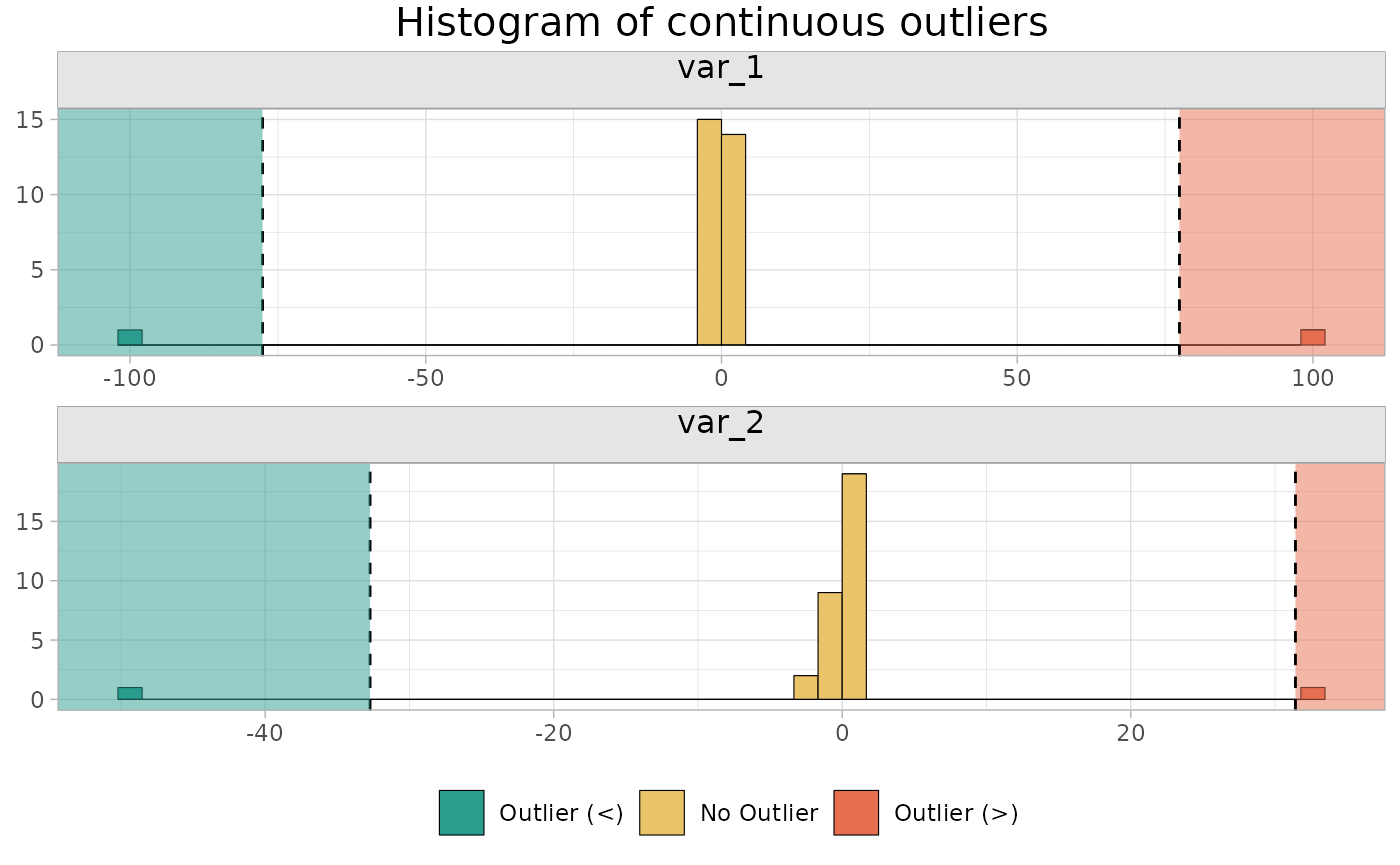
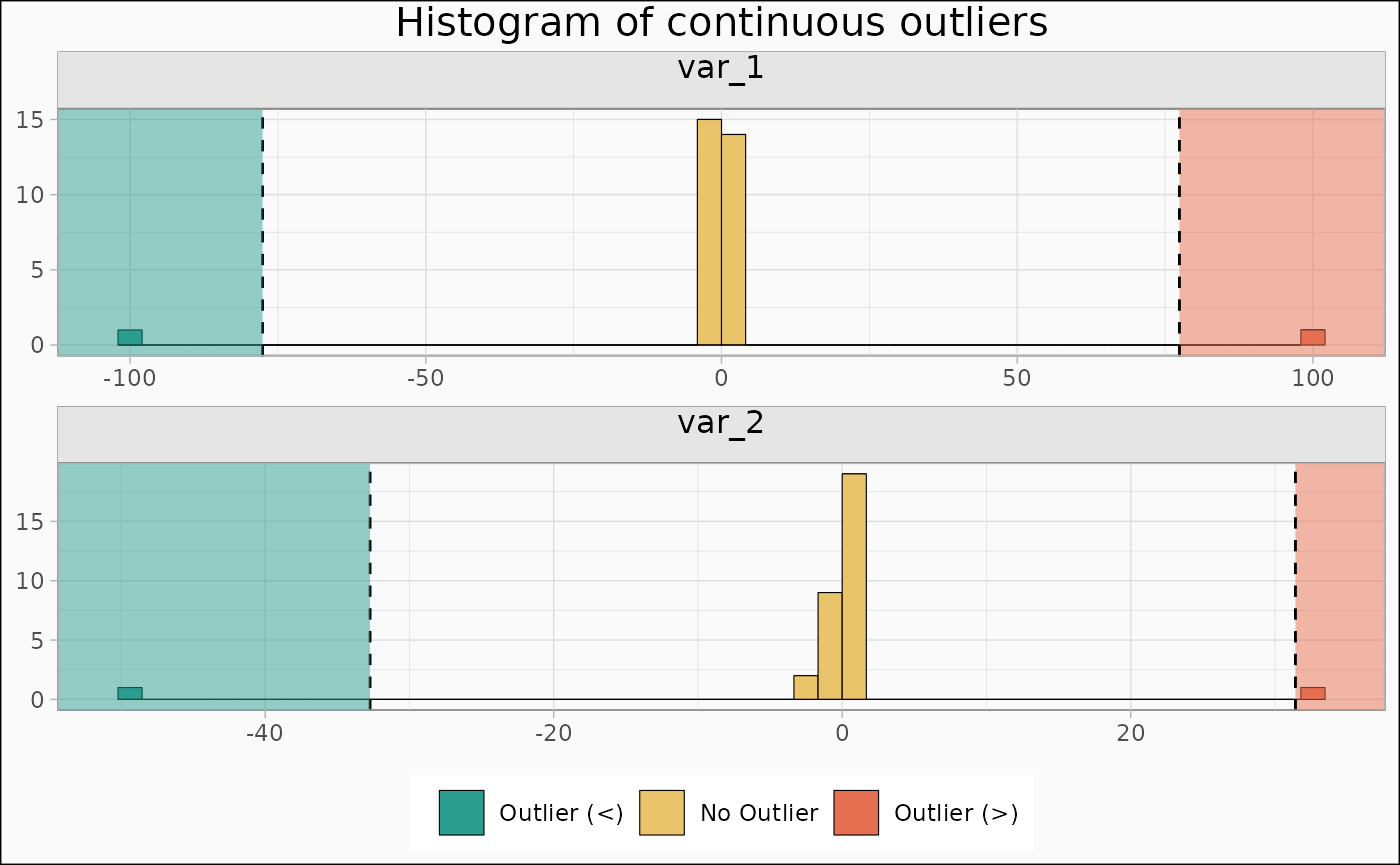
Deploying to gh-pages from @ pedersebastian/outlieR@e7d8fe335656da8a28c948767eb1f9e5629feb95 🚀

diff --git a/reference/theme_outlier.html b/reference/theme_outlier.html
@@ -55,13 +55,17 @@
 
     <div class="section level2">
     <h2 id="ref-usage">Usage<a class="anchor" aria-label="anchor" href="#ref-usage"></a></h2>
-    <div class="sourceCode"><pre class="sourceCode r"><code><span><span class="fu">theme_outlier</span><span class="op">(</span><span class="va">...</span><span class="op">)</span></span></code></pre></div>
+    <div class="sourceCode"><pre class="sourceCode r"><code><span><span class="fu">theme_outlier</span><span class="op">(</span>bg_colour <span class="op">=</span> <span class="st">"#fafafa"</span>, <span class="va">...</span><span class="op">)</span></span></code></pre></div>
     </div>
 
     <div class="section level2">
     <h2 id="arguments">Arguments<a class="anchor" aria-label="anchor" href="#arguments"></a></h2>
     <dl><dt>...</dt>
 <dd><p>dots</p></dd>
+
+
+<dt>bg_col</dt>
+<dd><p>background colour</p></dd>
 
 </dl></div>
 
